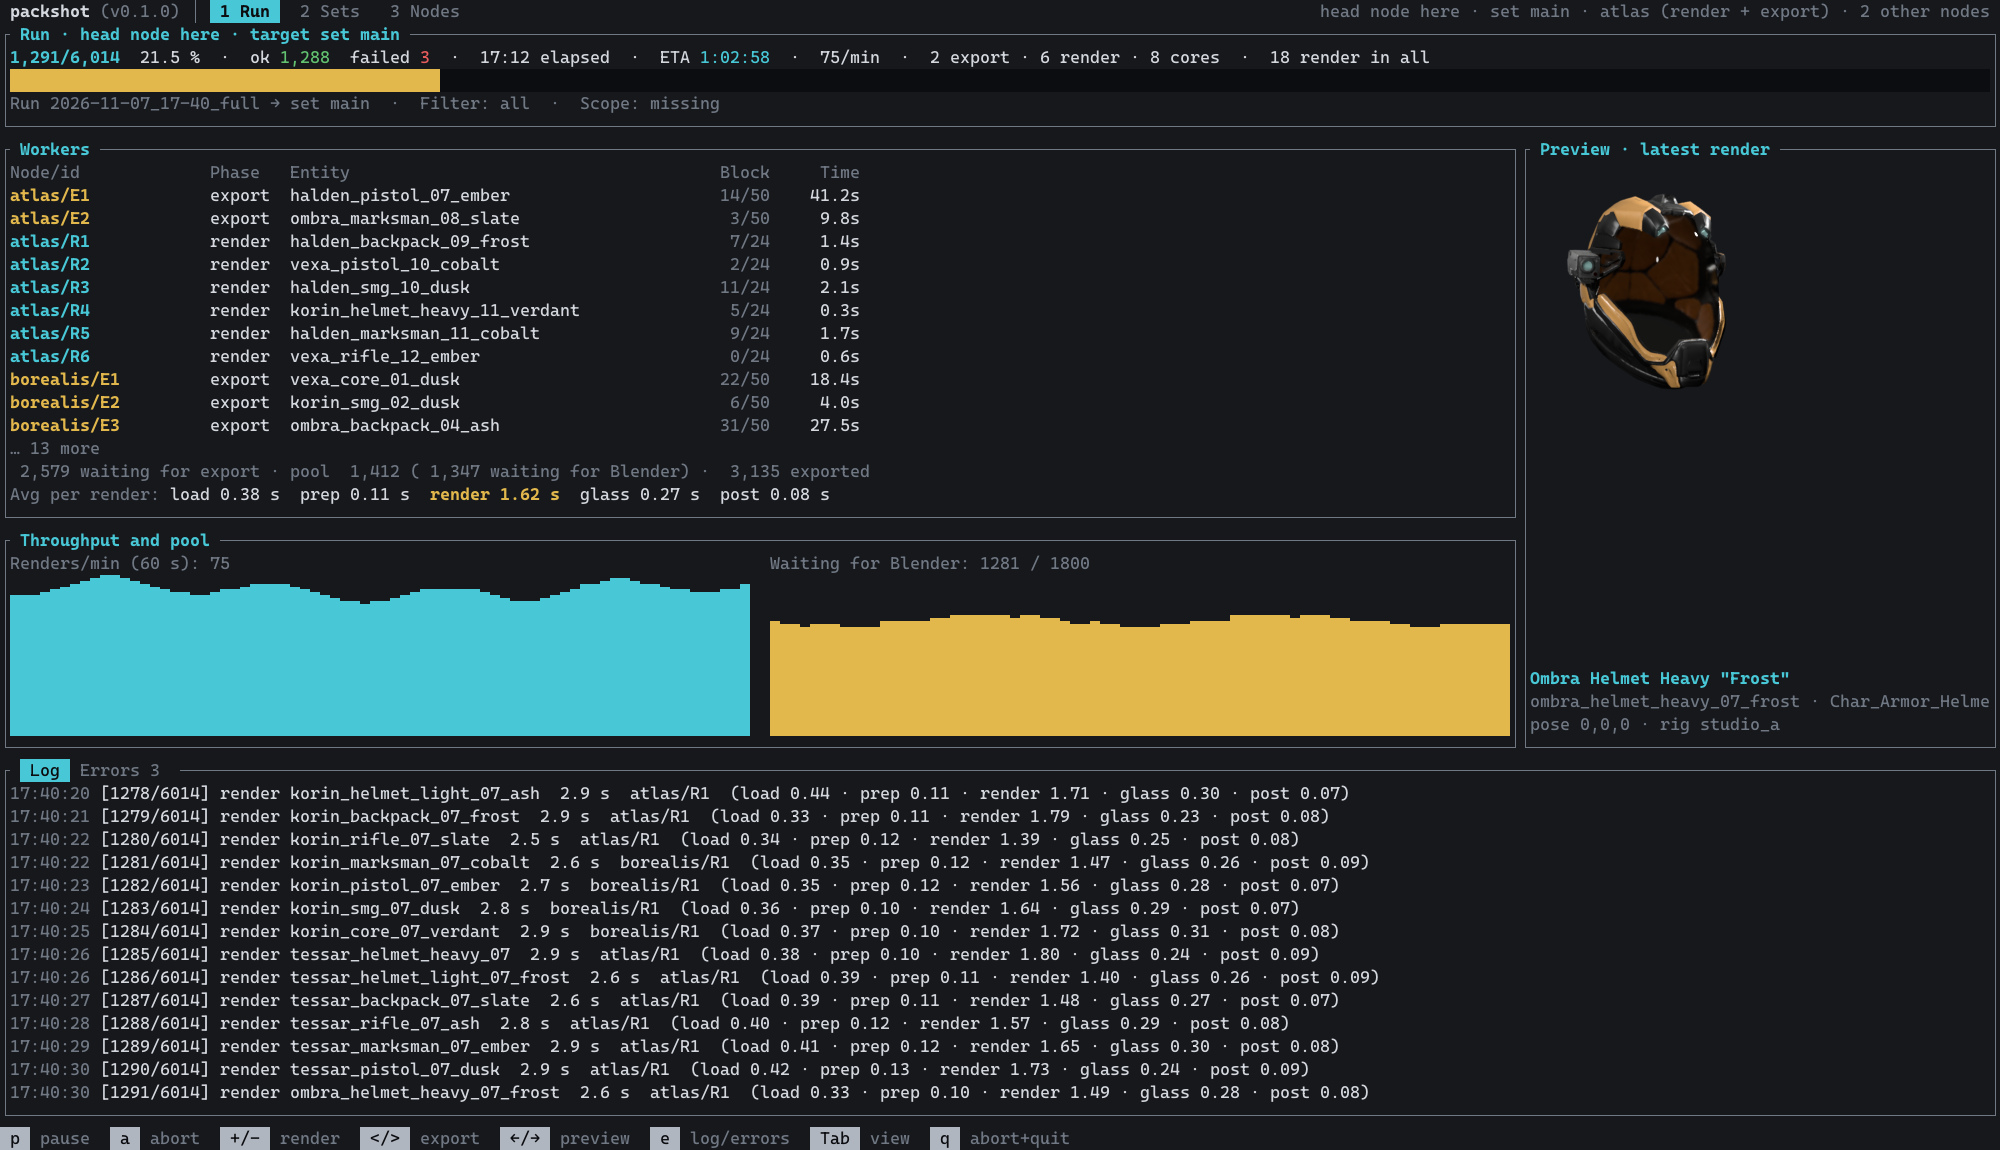
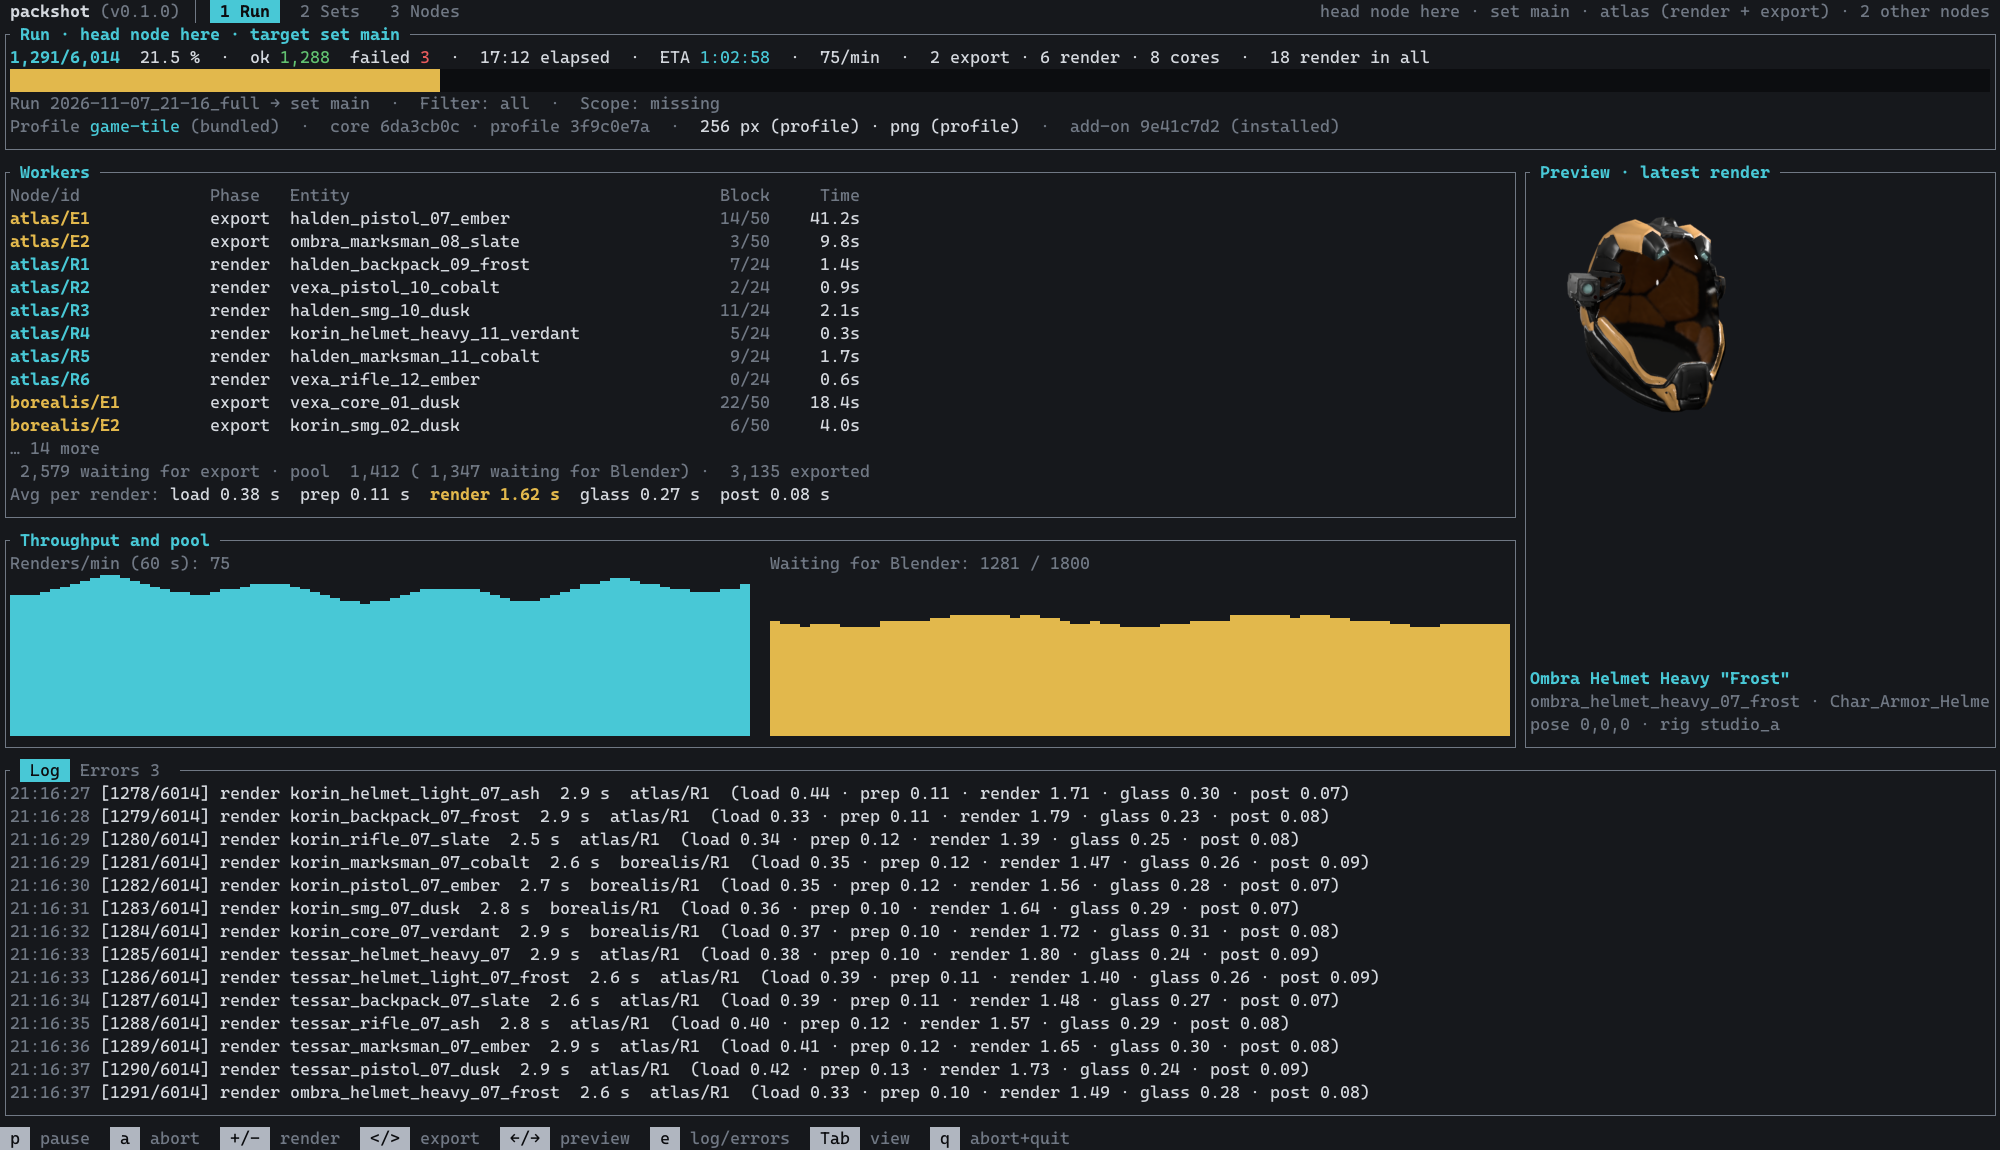
TUI screenshots with the profile columns and lines; the fixture fixes the running run's record too

diff --git a/src/ui/shots.rs b/src/ui/shots.rs
@@ -356,22 +356,29 @@ fn finish(e: &mut Engine, minutes: f64) {
     }
     e.tick();
     // run.json: its start back by the same time, so the Sets view shows a real duration
-    if let Some(id) = e.record.as_ref().map(|r| r.id.clone()) {
-        let mut info = e.store.run(&id).unwrap().clone();
-        // the synthetic state has no render.py or Blender to read: fixed values for the runs table
-        info.origin["render_py"] = "6da3cb0c523f77d7".into();
-        info.origin["blender_version"] = "5.2.3".into();
-        info.origin["profile_hash"] = "3f9c0e7a51d2b864".into();
-        info.origin["size"] = 256.into();
-        // the run tile reads the record in memory
-        if let Some(r) = e.record.as_mut() {
-            r.origin = info.origin.clone();
-        }
-        if let Ok(t) = chrono::DateTime::parse_from_rfc3339(&info.started) {
-            info.started = (t - chrono::Duration::seconds((minutes * 60.0) as i64)).to_rfc3339();
-            e.store.save_run(&info).unwrap();
-        }
+    if let Some(info) = fixed_origin(e)
+        && let Ok(t) = chrono::DateTime::parse_from_rfc3339(&info.started)
+    {
+        let mut info = info;
+        info.started = (t - chrono::Duration::seconds((minutes * 60.0) as i64)).to_rfc3339();
+        e.store.save_run(&info).unwrap();
     }
+}
+
+/// The synthetic state has no render.py, profile or Blender to read: fixed values in the current run's record (on
+/// disk for the runs table, in memory for the run tile), finished or not; the record as saved
+fn fixed_origin(e: &mut Engine) -> Option<crate::store::RunInfo> {
+    let id = e.record.as_ref().map(|r| r.id.clone())?;
+    let mut info = e.store.run(&id).unwrap().clone();
+    info.origin["render_py"] = "6da3cb0c523f77d7".into();
+    info.origin["blender_version"] = "5.2.3".into();
+    info.origin["profile_hash"] = "3f9c0e7a51d2b864".into();
+    info.origin["size"] = 256.into();
+    if let Some(r) = e.record.as_mut() {
+        r.origin = info.origin.clone();
+    }
+    e.store.save_run(&info).unwrap();
+    Some(info)
 }
 
 struct Scene {
@@ -450,6 +457,7 @@ fn scene(cell: (u16, u16)) -> Scene {
     let sel = e.select("", Scope::Missing);
     let todo = sel.todo.clone();
     e.start(&todo, "packshot --name full", "", Scope::Missing, "full", nodes, "atlas", crate::profile::Profile::stub(&root)).unwrap();
+    fixed_origin(&mut e);
     let done_n = 1284;
     let fails = [todo[211], todo[730], todo[1102]];
     let hosts: [(Option<&str>, u64); 3] = [(None, LOCAL), (Some("borealis"), c_bor), (Some("cinder"), c_cin)];
